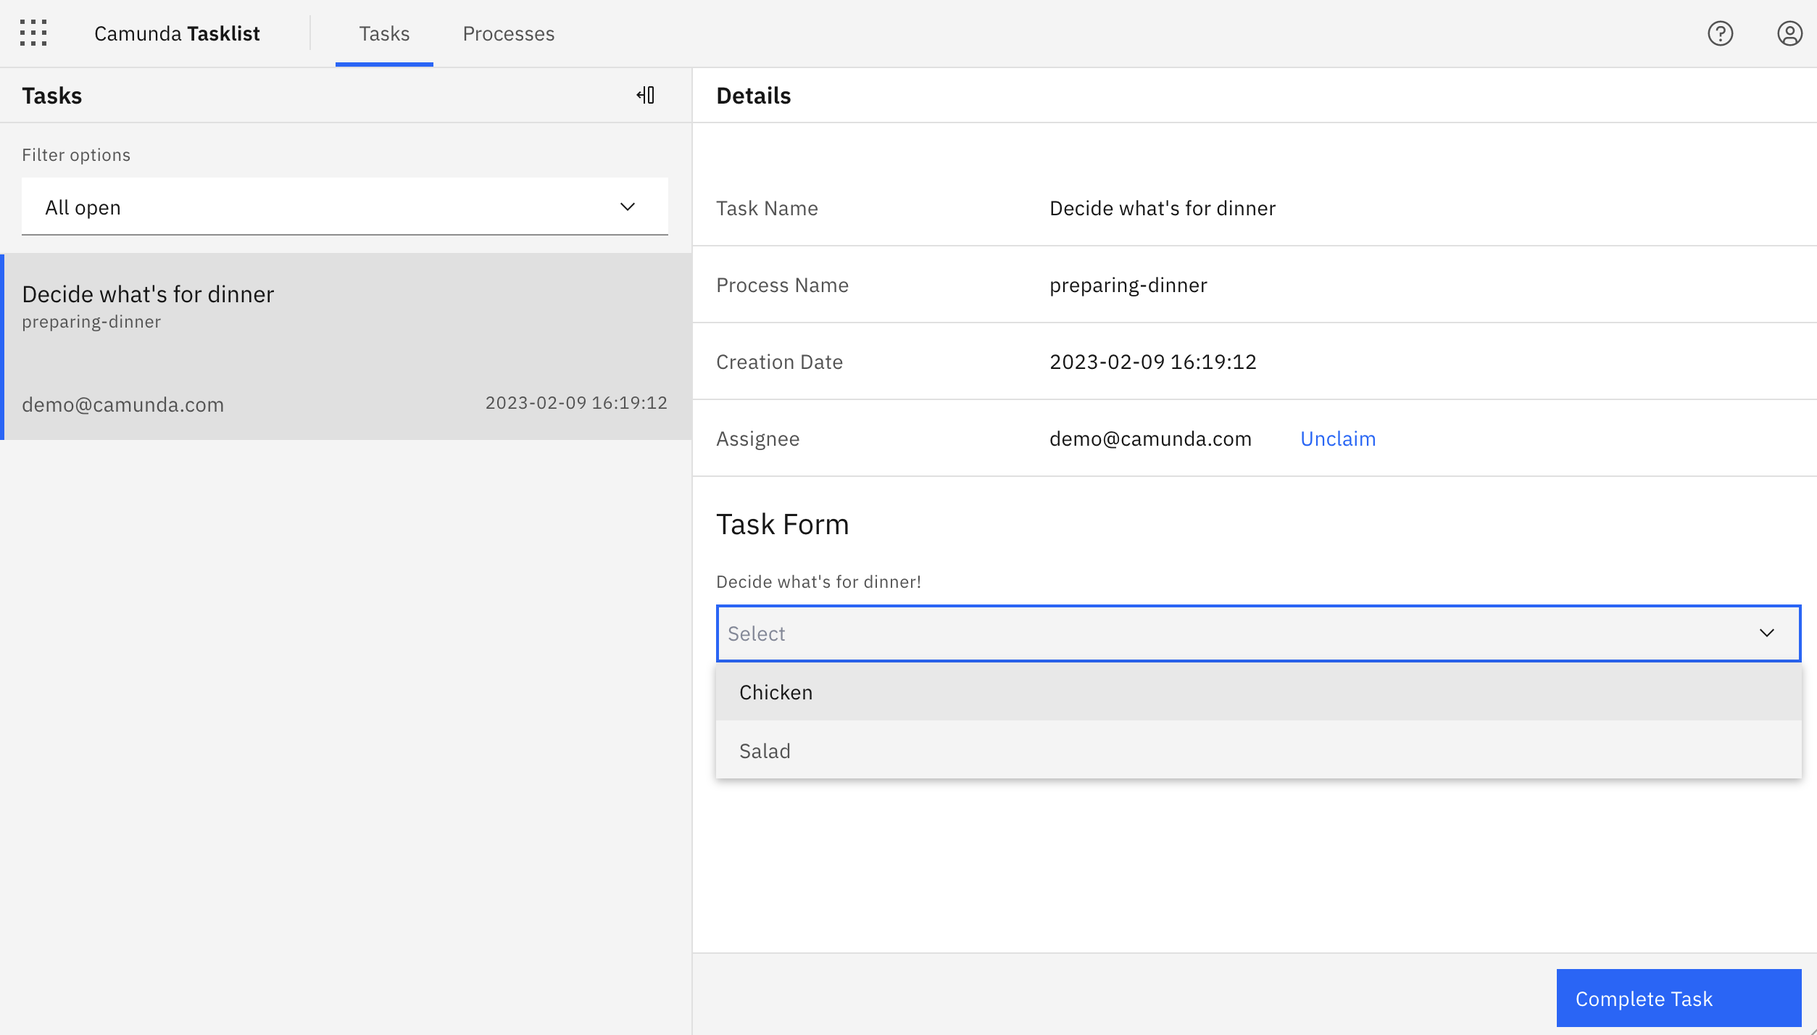
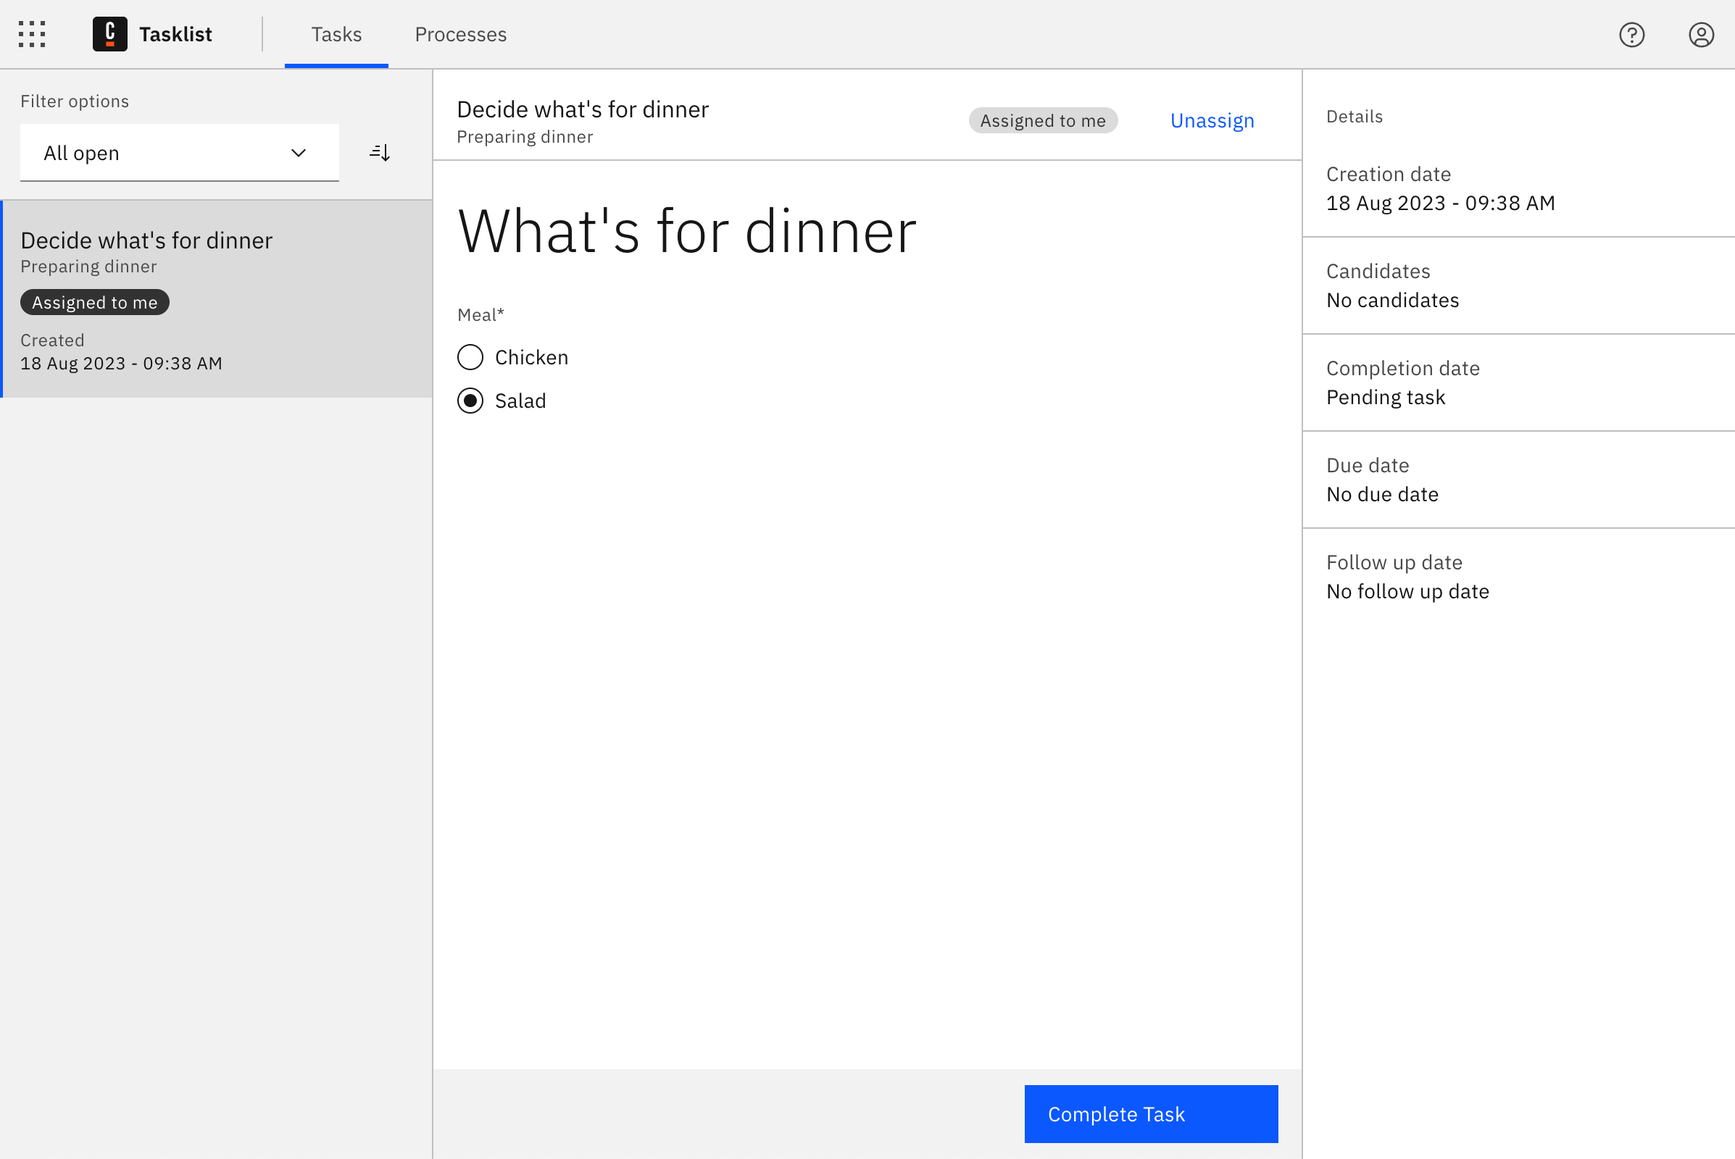
docs(guides): update HTO guide

diff --git a/docs/guides/getting-started-orchestrate-human-tasks.md b/docs/guides/getting-started-orchestrate-human-tasks.md
@@ -6,94 +6,205 @@ description: "Efficiently allocate work through user tasks."
 keywords: [human tasks, orchestration, getting started, user guide]
 ---
 
-Using [Camunda Platform 8](https://camunda.io), you can orchestrate human tasks by assigning them to users. Then, users can enter the necessary data to drive the business process.
+<span class="badge badge--beginner">Beginner</span>
+<span class="badge badge--medium">Time estimate: 15 minutes</span>
 
-When a process instance arrives at such a user task, a new job is created. The process instance stops at this point and waits until the job is completed. Applications like [Tasklist](/components/tasklist/introduction-to-tasklist.md) can be used by humans to complete these tasks.
+<!--
+TODO video guide here
+-->
 
-While it may originally seem like the goal of automating a process is to remove humans entirely, efficiently allocating work through user tasks can be even more beneficial.
+import ExpressionInputImg from './img/expression-input-example.png';
+import FormValuesImg from './img/form-values-example.png';
+import ImplementModeImg from './img/implement-mode-active.png';
+import FormLinkingImg from './img/form-linking.png';
+import ModelerNavImg from './img/modeler-navigation.png';
+import RunProcessImg from './img/run-process.png';
+import OperateHumanTasks from './img/operate-human-tasks.png';
+import FormEditorImg from './img/form-editor.png';
 
-In this guide, we’ll step through one way to create an automated process utilizing user tasks – all entirely executable in the browser. If you prefer a video-based learning experience, visit [this Camunda Academy course](https://bit.ly/3PJJocB) on Camunda Platform 8 and getting started with human workflows.
+import clsx from "clsx";
 
-## Create an automated process with user tasks
+Camunda Platform 8 lets you orchestrate processes with human tasks of any complexity. Thanks to user tasks, you can create and assing tasks to users. Then, users can perform their work and enter the necessary data to drive the business process.
 
-To create an automated process with [user tasks](/components/modeler/bpmn/user-tasks/user-tasks.md), take the following steps:
+This guide introduces you to the basics of human task orchestration. You will create a simple process to decide on an expense report, and drive the process flow according to that decision. This process is entirely executable in the browser.
 
-### Develop your automated process with user tasks
+:::note
+If you prefer a video-based learning experience or a more complex example, visit [this Camunda Academy course](https://bit.ly/3PJJocB).
+:::
 
-1. To create a BPMN diagram, navigate to Web Modeler via the **Modeler** tab, and click **New project**.
-2. Name your project and select **New > BPMN Diagram > + Create blank**.
-3. Give your model a descriptive name, and then give your model a descriptive id within the **General** tab inside the properties panel on the right side of the screen. In this case, we've named our model `Preparing dinner` with an id of `preparing-dinner`.
-   ![modeler example](./img/modeler-example.png)
-4. Use Web Modeler to design a BPMN flow with user tasks. Create a user task by dragging the task icon from the palette, or click the existing start event and the displayed task icon.
-5. Change the task type by clicking the wrench icon. Select **User Task**.
-   ![wrench icon example](./img/wrench-icon-example.png)
-6. Add a descriptive name using the properties panel. In this case, we've named ours `Decide what's for dinner`.
-7. Append an exclusive [gateway](/components/modeler/bpmn/gateways.md) to your user task by clicking on the user task `Decide what's for dinner` and clicking on the element you'd like to create next. In this case, we've selected the diamond icon to create a gateway.
-8. Create two sequence flows (represented by the arrows) from the gateway and two new user tasks based on what the user decides to eat. In this case, we've named ours `Prepare chicken` and `Prepare salad`.
-9. Sequence flows require expressions to access variables from the form we'll create below to determine what to eat for dinner. To add an [expression](/components/concepts/expressions.md), click on the sequence flow to view the properties panel, and open the **Condition** tab to insert a conditional expression.
-10. Verify the sequences flows have the following expressions: `= meal = "Salad"`on one side, and `= meal = "Chicken"`on the other.
+Take the following 5 simple steps to create and run your first process with a human in the loop:
 
-    ![expression input example](./img/expression-input-example.png)
+### Step 1: Create a new process
 
-11. Attach the two user tasks and an end event.
+You will design a very simple process that demonstrates how to route the process flow based on a user decision. In this simple example, you will create a process to decide what is for dinner.
 
-    ![dinner bpmn model](./img/dinner-bpmn-model.png)
+#### Create a new file
+
+1. Navigate to Web Modeler and click **New project**.
+2. Name your project and select **Create new file > BPMN Diagram**.
+3. Give your model a descriptive name. In this case, name it `Decide for Dinner`.
+
+Try it in the step-by-step demo:
+
+<div style={{position: "relative", paddingBottom: "calc(66.66666666666666% + 41px)", height: 0, width: "100%"}}>
+   <iframe src="https://demo.arcade.software/HHkLk3pqwaoxuKbATM8S?embed" frameborder="0" loading="lazy" webkitallowfullscreen mozallowfullscreen allowfullscreen style={{position: "absolute", top: 0, left: 0, width: "100%", height: "100%", colorScheme: "light"}} title="Creating a new process diagram"></iframe>
+</div>
+
+#### Design the process
+
+:::note
+To run this guide, make sure to be in **Implement** mode.
+<img src={ImplementModeImg} style={{width: 250}} alt="Active implement mode tab" />
+:::
+
+1. A **start event** is automatically added to the canvas. Click it to display configuration and append options.
+2. Click the **task** icon to append a task.
+3. Enter a descriptive name for the task, such as `Decide what's for dinner`.
+4. Change the task type by clicking the **wrench** icon. Select **User Task**.
+5. Select the user task and click on the diamond-shaped icon to append an exclusive gateway. The gateway allows to route the process flow differently, depending on conditions.
+6. Select the gateway and append a task by clicking the task icon. Repeat it to create a second process flow. Name the tasks based on what the user decides to eat: in this case, we've named ours `Prepare chicken` and `Prepare salad`.
+7. To route the user to the right task, add [expressions](/components/concepts/expressions.md) to the **sequence flows**. Sequence flows are represented by arrows connecting the gateway to the tasks. To add an expression, click on a sequence flow to view the **properties panel**, and open the **Condition** section.
+8. Verify the sequence flows have the following expressions: `meal = "Salad"` on one side, and `meal = "Chicken"` on the other. You will define the variable `meal` later when designing a form for the user task.
+   <img src={ExpressionInputImg} style={{width: 400}} alt="Example of a conditional expression" />
+
+9. You need to connect the splitted process flows again. Append another exclusive gateway to one of the tasks. Select the other task and drag the arrow-shaped sequence flow tool to connect it to the gateway.
+10. Select the gateway and add an **end event** to your process, denoted by the circle with the thick outline.
+
+Try it in the step-by-step demo:
+
+<div style={{position: "relative", paddingBottom: "calc(66.66666666666666% + 1px)", height: 0, width: "100%"}}>
+   <iframe src="https://demo.arcade.software/UOGzxRhBJw52D1rcMoiX?embed" frameborder="0" loading="lazy" webkitallowfullscreen mozallowfullscreen allowfullscreen style={{position: "absolute", top: 0, left: 0, width: "100%", height: "100%", colorScheme: "light"}} title="Designing a human decision flow"></iframe>
+</div>
 
 :::note
 Are you new to BPMN or want to learn more? Visit our [BPMN cheat sheet](https://page.camunda.com/wp-bpmn-2-0-business-process-model-and-notation-en) for an overview of all BPMN symbols.
 Variables are part of a process instance and represent the data of the instance. To learn more about these values, variable scope, and input/output mappings, visit our documentation on [variables](/components/concepts/variables.md).
 :::
 
-### Implement a form
+<!-- TODO note that processes can be of any complexity, and link to advanced guides -->
 
-1. Navigate to the Modeler **Home** page and click the project you are working on. Then, click **New > Form**.
-2. Name your form. In this case, we've named ours `Dinner Options`.
-3. Click and drag the **Select** element onto the palette. Give this **Select** field a description within the properties panel. We've labeled ours as `What's for dinner?`. Additionally, we need to set a key which maps to a process variable. As already defined by the conditions in the process model we are going to use the variable `meal`.
-4. Scroll down to the **Values** section of the properties panel to add your values. For our dinner add an extra value by clicking on the plus sign. Enter the value `Chicken` with the label as `Chicken` and enter the value `Salad` with the label as `Salad` in the other value.
+### Step 2: Design a form
 
-   ![form values example](./img/form-values-example.png)
+You have designed the process now, but to allow the user to make the decision, you will design a form. Forms can be added to user tasks and start events to capture user input, and the user input can be used to route the process flow, to make calls to APIs, or to orchestrate your services.
 
-5. Within your BPMN diagram, click the appropriate user task, and click the blue square icon in the bottom right corner of your user task. Select the form you'd like to apply to your user task, and click **Import** to add the form to the BPMN diagram.
-   ![form import example](./img/form-import-example.png)
+1. Select the user task you created in [step 1](#step-1-create-a-new-process).
+2. Click the blue **form link icon** in the lower right corner. A menu expands that allows you to create a new form.
+3. Click **Create new form**. A form will be created and opened in the form editor. The form is automatically named.
+4. Click and drag the **Text** component to the empty form.
+   <img src={FormEditorImg} alt="Dragging a component to a form" />
 
-### Start and view your process instance
+5. Open the **General** section in the properties panel and enter a text, such as `What's for dinner?`.
+6. Click and drag the **Radio** component to the form to create a radio group. Give it a descriptive name within the properties panel.
+7. Additionally, set a **key** which maps to a process variable. The value of the component will be stored in this variable, and it can be read by the process that uses this form. As already defined by the conditions in the process earlier, use the variable `meal`.
+8. Scroll down to the **Options** section of the properties panel to add radio options. Since there are two options for the dinner, add an extra value by clicking on the plus sign. Enter the value `Chicken` with the same label as `Chicken` and enter the value `Salad` with the label as `Salad` in the other value.
 
-1. To deploy your diagram, click **Deploy diagram > Deploy**.
-   :::note
-   If you have not yet created a cluster, clicking **Deploy diagram** will take you to the console to create a cluster. Once you make your cluster creation request, you will automatically be redirected back to Modeler. The creation of a cluster can take 1 to 5 minutes. To read more about creating clusters, visit our documentation on [creating a cluster](create-cluster.md).
-   :::
-2. To officially start a new process instance, click **Start instance**.
-3. Navigate to [Operate](/components/operate/operate-introduction.md) by clicking the honeycomb icon next to the **Start instance** button.
-4. Click **View process instances** to see your process instance alongside the green token waiting at the user task.
+<img src={FormValuesImg} style={{width: 600}} alt="Defining a radio group and its values" />
 
-![token moving through process](./img/user-task-token-1.png)
+Try it in the step-by-step demo:
 
-### Complete a user task
+<div style={{position: "relative", paddingBottom: "calc(66.66666666666666% + 41px)", height: 0, width: "100%"}}>
+   <iframe src="https://demo.arcade.software/NBGJS2Y3WlklBw9HMwgR?embed" frameborder="0" loading="lazy" webkitallowfullscreen mozallowfullscreen allowfullscreen style={{position: "absolute", top: 0, left: 0, width: "100%", height: "100%", colorScheme: "light"}} title="Create a simple form"></iframe>
+</div>
 
-Within this example, we've included a form to demonstrate the completion of a human task. To learn more about creating forms within your diagrams, visit our guide on [building forms with Modeler](/components/modeler/bpmn/user-tasks/user-tasks.md#user-task-forms).
+### Step 3: Connect the form to your process
 
-1. Go back to your Camunda Platform 8 diagram and select the honeycomb icon and then **View user tasks** to take a look at your user tasks inside Tasklist.
-2. Select the open user task on the left panel of **Tasks**. In our example below, this is **Decide what's for dinner**.
-3. Next to **Assignee**, click **Claim** to claim the task.
-4. Once finished entering the appropriate information, click **Complete Task**.
-   ![complete a human task in Tasklist](./img/user-task-tasklist.png)
-5. On the left panel of **Tasks**, filter by **Completed** tasks to see your task has been finished.
+Once the form is designed, you have to connect it to your process.
 
-You can now navigate back to Operate and notice the process instance has continued, and the token has moved forward.
+1. Click on the project name in the breadcrumbs to navigate back, and open the process you created in [step 1](#step-1-create-a-new-process).
+2. Select the user task. Click the blue **form link icon** to open the form menu.
+3. Select the form you just created, and click **embed** to confirm.
+   <img src={FormLinkingImg} style={{width: 400}} alt="Selecting a form from the project" />
 
-The token moves through the exclusive gateway (also called the XOR gateway), and is used to model the decision in the process. When the execution arrives at this gateway, all outgoing sequence flows are evaluated in the order in which they have been defined. The sequence flow which condition evaluates to ‘true’ (or which doesn’t have a condition set, conceptually having a ‘true’ value defined on the sequence flow) is selected for continuing the process.
+4. You can check if you embedded the right form by clicking the form linking icon again. A preview of the form will appear.
 
 :::note
-Here, after implementing your gateway, is when [expressions](/components/concepts/expressions.md) will become useful in accessing [variables](/components/concepts/variables.md) and calculating their value to move forward in a process.
+Forms are embedded in the user task and deployed together with the process. If you make changes to a form, you have to remove and re-embed it again to make the changes appear.
 :::
 
-In this case, the token will move through the gateway and (according to the conditional expressions we outlined earlier) to the selected dinner based on the **Decide what's for dinner** user task we completed. If we select **Chicken**, the token moves forward to **Prepare chicken**. If we select **Salad**, the token moves forward to **Prepare salad**.
+### Step 4: Run your process
+
+Your process is now ready to run. Since it is a human-centric process, it is best suited to be run in Tasklist. In order to make it accessible from Tasklist, the process must be deployed first.
+
+#### Deploy and test run
+
+1. Click **Deploy** to deploy the process to your cluster.
+   :::note
+   If you have not yet created a cluster, clicking **Deploy** will take you to Console to [create a cluster](create-cluster.md) first. Continue with this guide after cluster creation.
+   :::
+2. After you deployed your process, it can be executed on the cluster. There are multiple ways to run a process. This time, click **Run** in Modeler for a simple test run.
+
+:::tip
+Other options to run a process are to start it via Tasklist, test it in the Play mode, or calling it via the API or an inbound trigger. Read more about [run options](/components/modeler/web-modeler/run-or-publish-your-process.md).
+:::
+
+#### Check successful start in Operate
+
+1. The process start will be confirmed via a notification message on the screen. Click the **chevron icon** next to **Run** to open more options. Click **View process instances** to see the running process in Operate.
+   <img src={RunProcessImg} style={{width: 300}} alt="Run action in Modeler" />
+
+2. In Operate, you will see a visualization of the running process instance. Notice that a green **token** is waiting at the user task. This means that a task is waiting to be worked on in Tasklist.
+   <img src={OperateHumanTasks} alt="Process instance monitoring in Operate" />
+
+:::tip
+In production, Operate is used to monitor both long-running and straight-through, high-throughput processes. In development environments, use Operate to confirm if the process flow works as expected. For faster in-place validation during development, use the [Play mode](/components/modeler/web-modeler/play-your-process.md).
+:::
+
+### Step 5: Complete a user task
+
+When the process instance arrives at the user task, a new job is created. The process instance stops at this point and waits until the job is completed. Applications like [Tasklist](/components/tasklist/introduction-to-tasklist.md) can be used by humans to complete these tasks. In this last step, you will open Tasklist to run the user task you created.
+
+:::tip
+While it may originally seem like the goal of automating a process is to remove humans entirely, efficiently allocating work through user tasks can be even more beneficial. Within this example, we've included a form to demonstrate the completion of a user task. Using the Zeebe or Tasklist API, many other ways to complete a user task are possible, such as redirecting to another application to complete the task, or even listening to IoT devices to capture human interaction with the real world via job workers.
+:::
+
+1. Click the **navigation menu icon** next to the Camunda logo in the top bar to open the global navigation.
+2. Click **Tasklist** to open the Tasklist application.
+   <img src={ModelerNavImg} style={{width: 200}} alt="Navigation to other applications" />
+
+3. On the left, you will notice a list of **tasks**. There should be one open task `Decide what's for dinner`. Click this task to open it in the detail view.
+4. In the detail view, the form you created in [step 2](step-2-design-a-form) appears. It is read only since this task is currently unassigned. You have to claim the task to work on it. Next to **Assignee**, click **Assign to me** to claim the task.
+5. Select one of the radio options.
+6. Click **Complete Task** to submit the form.
+   ![complete a human task in Tasklist](./img/user-task-tasklist.png)
+7. To verify your task completion, you can filter by **Completed** tasks in the left task list panel.
+
+You can now navigate back to Operate and notice the process instance has continued as the token has moved forward to the selected option.
+
+The token moves through the exclusive gateway (also called the XOR gateway), and is used to model the decision in the process. When the execution arrives at this gateway, all outgoing sequence flows are evaluated in the order in which they have been defined. The sequence flow which condition evaluates to ‘true’ is selected for continuing the process. In this case, the token will move through the gateway and (according to the conditional expressions we outlined earlier) to the selected dinner based on the **Decide what's for dinner** user task we completed. If we select **Chicken**, the token moves forward to **Prepare chicken**. If we select **Salad**, the token moves forward to **Prepare salad**.
+
+## Wrap up
+
+At this point, you've successfully crafted a simple human-centered process that routes the process flow based on decision made by a user.
+
+A core value of Camunda Platform 8 lies in the combination of automation and human interaction. Continue with the following resources to learn about intelligent task assignments, flexible forms to capture data and decisions, operational insights to refine task efficiency, and pathways to publish your processes to users via Tasklist or even publicly.
+
+Don't want to build the process yourself? Click this button to create it from a template in Camunda Platform 8 SaaS.
+
+<a
+   className={clsx(
+   "button button--outline button--secondary button--lg"
+   )}
+   href="https://modeler.cloud.camunda.io/tutorial/quick-start-human-tasks"
+>
+   Try on Camunda Platform 8 SaaS
+</a>
+
+<a
+   className={clsx(
+   "button button--outline button--secondary button--lg sign-up"
+   )}
+   href="https://signup.camunda.com/accounts?utm_source=docs.camunda.io&utm_medium=referral"
+>
+   Sign Up
+</a>
+
 
 ## Additional resources and next steps
 
-- [Video-based Human Task Orchestration Course](https://bit.ly/3PJJocB)
-- [BPMN user tasks](/components/modeler/bpmn/user-tasks/user-tasks.md)
-- [Building Forms with Modeler](./utilizing-forms.md)
-- [Introduction to Operate](/components/operate/operate-introduction.md)
-- [Introduction to Tasklist](/components/tasklist/introduction-to-tasklist.md)
-- [Intermediate Modeler example](https://github.com/NPDeehan/Whos50GameCamundaCloud)
+- Watch the [video-based Human Task Orchestration Course](https://bit.ly/3PJJocB).
+- Learn how to use [BPMN user tasks](/components/modeler/bpmn/user-tasks/user-tasks.md) to route tasks to the right users.
+- Learn how to [build more complex forms](./utilizing-forms.md) using the form editor.
+- Learn to write powerful [expressions](/components/concepts/expressions.md) and utilize [variables](/components/concepts/variables.md) to route complex process flows easily.
+- Get an [introduction to Operate](/components/operate/operate-introduction.md).
+- Learn how to [setup Tasklist](/components/tasklist/introduction-to-tasklist.md) for efficient task management.
+- Explore [start forms](/components/modeler/) and attach the form directly to the start event.
